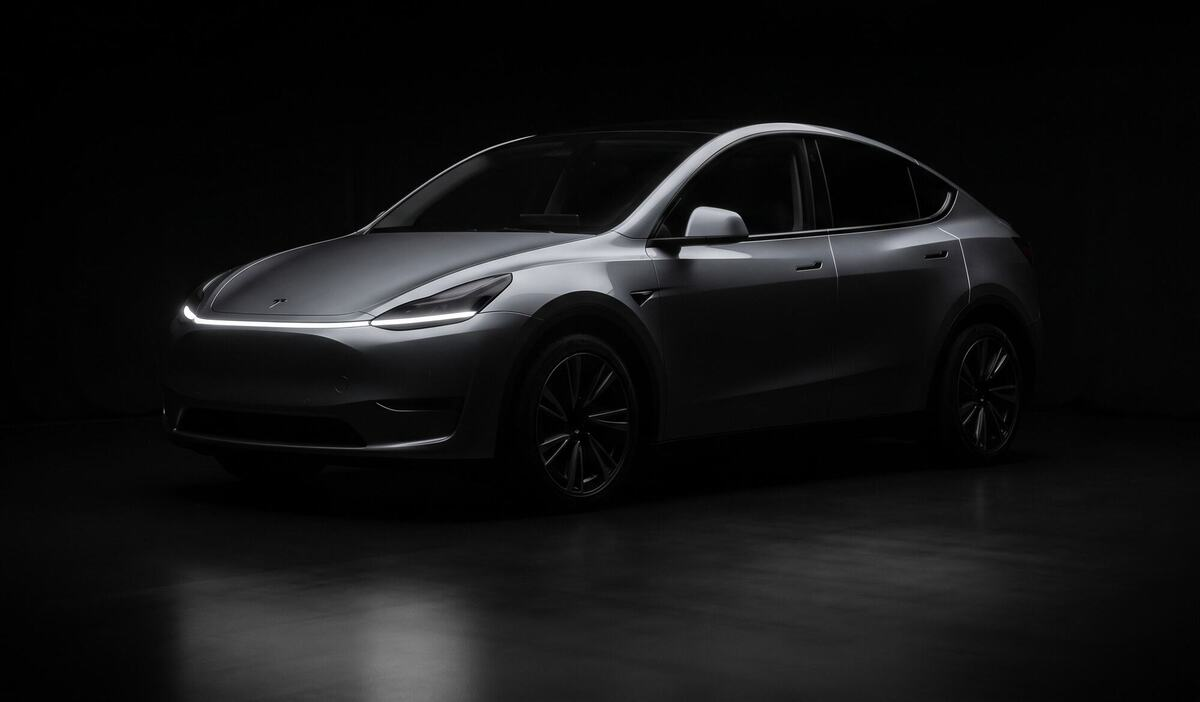
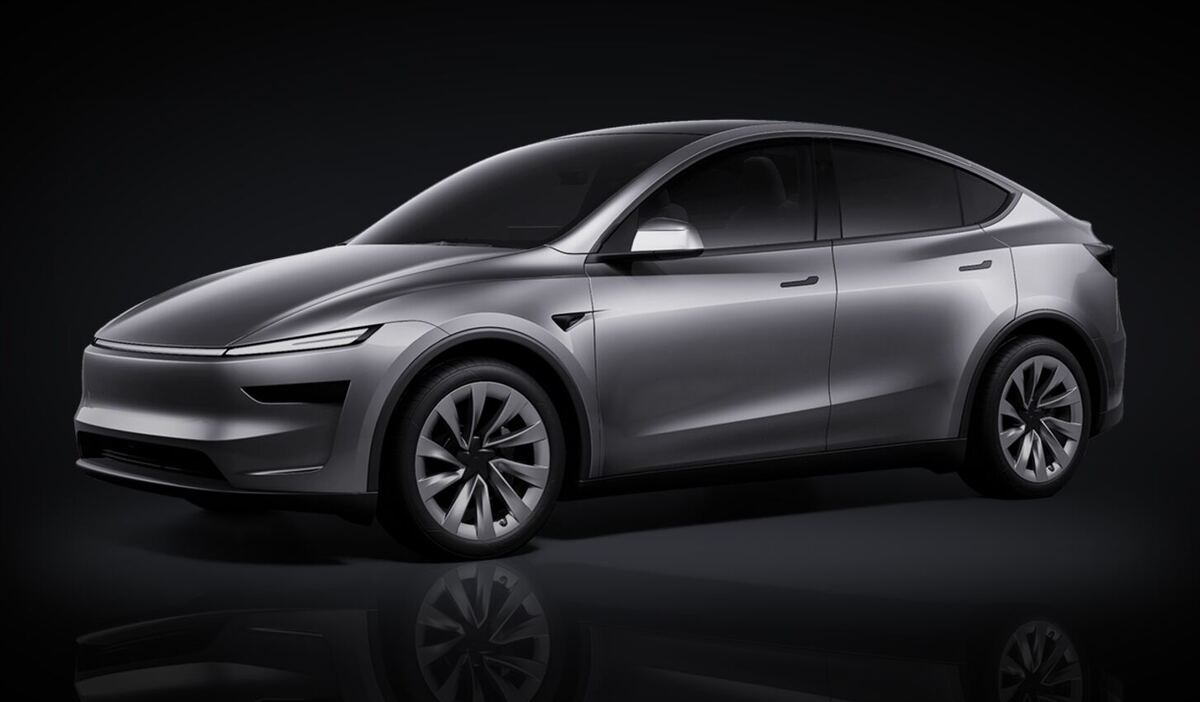
feat(sale): use Tesla configurator render of the same spec for the hero
- Hero now shows the actual facelift Model Y (Quicksilver, silver Helix
  2.0) from tesla.com, relit on black; credit says it is not the car
- Night band removed until it is rebuilt from the real rear render
- Copy: 'Acceleration Boost included with Launch Series'
- Section index: always visible, scrollspy clears/at-end handling,
  bar height token, safe centering, aria-current=location

diff --git a/public/sale/index.html b/public/sale/index.html
@@ -54,6 +54,7 @@
 <style>
   :root {
     --fs: 1;
+    --bar-h: 101px; /* top row 56 + border 1 + section index 44 */
     --ink: #0c0c0d;
     --graphite: #161719;
     --graphite-2: #1f2023;
@@ -131,11 +132,12 @@
   .subnav { height: 44px; border-top: 1px solid var(--line-dark); background: rgba(0,0,0,.55); }
   .topbar.is-solid .subnav { background: transparent; }
   .subnav__track {
+    position: relative;
     display: flex; align-items: center; gap: 4px; height: 44px;
     overflow-x: auto; scrollbar-width: none; -webkit-overflow-scrolling: touch;
   }
   .subnav__track::-webkit-scrollbar { display: none; }
-  @media (min-width: 980px) { .subnav__track { justify-content: center; } }
+  @media (min-width: 980px) { .subnav__track { justify-content: safe center; } }
   .subnav a {
     flex: none; padding: 6px 12px; border-radius: 999px;
     font-size: 13px; letter-spacing: .04em; white-space: nowrap;
@@ -143,7 +145,7 @@
     transition: color .2s, background-color .2s;
   }
   .subnav a:hover { color: var(--text-light); }
-  .subnav a[aria-current="true"] { color: var(--ink); background: var(--text-light); }
+  .subnav a[aria-current="location"] { color: var(--ink); background: var(--text-light); }
 
   .topbar__actions { display: flex; align-items: center; gap: 8px; }
   .topbar, .dock { --fs: 1; }
@@ -260,7 +262,7 @@
   .hero__actions { display: flex; gap: 10px; flex-wrap: wrap; }
 
   /* ---------- Sections ---------- */
-  section { scroll-margin-top: 100px; }
+  section { scroll-margin-top: var(--bar-h); }
   .section { padding: 72px 0; }
   @media (min-width: 720px) { .section { padding: 128px 0; } }
   .section--dark { background: var(--ink); color: var(--text-light); }
@@ -349,10 +351,10 @@
   .band__copy p:last-child { margin-top: 12px; color: #c9cbd0; font-size: calc(15px * var(--fs)); max-width: 26em; }
   .band .eyebrow { color: var(--muted-light); }
   .band__credit { top: 12px; }
-  @media (max-width: 899px), (orientation: portrait), (max-height: 560px) {
+  @media (width < 900px), (orientation: portrait), (height < 561px) {
     .band__media::after { content: ""; position: absolute; inset: auto 0 0 0; height: 35%; background: linear-gradient(0deg, #000, rgba(0,0,0,0)); }
   }
-  @media (min-width: 900px) and (orientation: landscape) and (min-height: 561px) {
+  @media (width >= 900px) and (orientation: landscape) and (height >= 561px) {
     .band__media::after {
       content: ""; position: absolute; inset: 0;
       background: linear-gradient(270deg, rgba(0,0,0,.78) 0%, rgba(0,0,0,.35) 30%, rgba(0,0,0,0) 50%),
@@ -593,12 +595,11 @@
 <main id="top">
   <!-- 1. Hero -->
   <section class="hero" aria-labelledby="hero-title">
-    <div class="hero__bg">
-      <img src="images/hero.jpg" srcset="images/hero-m.jpg 1200w, images/hero.jpg 2000w"
-           sizes="(max-width: 719px) 100vw, (orientation: portrait) 100vw, (max-height: 560px) 100vw, (min-width: 1736px) 1180px, 68vw"
-           alt="Tesla Model Y 車體示意圖（非實車照片）" width="2000" height="1170" fetchpriority="high">
-    </div>
-    <span class="hero__credit" aria-hidden="true">示意圖，非實車照片</span>
+    <picture class="hero__bg">
+      <source media="(max-width: 719px), (orientation: portrait), (max-height: 560px)" srcset="images/hero-m.jpg" width="1200" height="702">
+      <img src="images/hero.jpg" alt="2025 Tesla Model Y Quicksilver 搭配銀色 Helix 2.0 輪框（Tesla 官網同配置圖，非本車實拍）" width="2000" height="1170" fetchpriority="high">
+    </picture>
+    <span class="hero__credit" aria-hidden="true">圖片取自 Tesla 官網同配置，非本車實拍</span>
     <div class="hero__body wrap">
       <div class="hero__text">
       <p class="eyebrow">車主自售 · Private Sale</p>
@@ -630,7 +631,7 @@
       <ul class="stats">
         <li class="stat reveal"><div class="stat__value">2025</div><p class="stat__label"><b>年式</b>出廠 2025.04・領牌 2025.06</p></li>
         <li class="stat reveal"><div class="stat__value">22,000<small>km</small></div><p class="stat__label"><b>里程</b>約 2.2 萬公里</p></li>
-        <li class="stat reveal"><div class="stat__value">4.3<small>sec</small></div><p class="stat__label"><b>0–100 km/h</b>原廠內建 Acceleration Boost</p></li>
+        <li class="stat reveal"><div class="stat__value">4.3<small>sec</small></div><p class="stat__label"><b>0–100 km/h</b>首發包含 Acceleration Boost</p></li>
         <li class="stat reveal"><div class="stat__value">375<small>hp</small></div><p class="stat__label"><b>行照登記最大馬力</b>依行照登記數值</p></li>
         <li class="stat reveal"><div class="stat__value">AWD</div><p class="stat__label"><b>Long Range</b>雙馬達全輪驅動・長續航</p></li>
         <li class="stat reveal"><div class="stat__value">20<small>in</small></div><p class="stat__label"><b>Helix 2.0</b>原廠輪圈</p></li>
@@ -686,38 +687,22 @@
     </div>
   </section>
 
-  <!-- Night band -->
-  <section class="band" aria-labelledby="band-title">
-    <picture class="band__media">
-      <source media="(max-width: 899px), (orientation: portrait), (max-height: 560px)" srcset="images/night-m.jpg" width="1200" height="900">
-      <img src="images/night.jpg" srcset="images/night-1200.jpg 1200w, images/night.jpg 2400w" sizes="100vw" alt="Tesla Model Y 夜間行駛，貫穿式尾燈發出柔和紅光的示意圖（非實車照片）" width="2400" height="1018" loading="lazy">
-    </picture>
-    <div class="band__text wrap">
-      <div class="band__copy reveal">
-        <p class="eyebrow">Rear Light Bar</p>
-        <h2 id="band-title">夜裡的那道紅</h2>
-        <p>新款 Model Y 的貫穿式尾燈採漫反射設計：光先打在內部反射面再散出來，不刺眼，是一整道柔和的紅。</p>
-      </div>
-    </div>
-    <span class="band__credit" aria-hidden="true">示意圖，非實車照片</span>
-  </section>
-
   <!-- 3. Launch Series -->
   <section class="section section--dark" id="launch" aria-labelledby="launch-title">
     <div class="wrap">
       <div class="head reveal">
         <h2 id="launch-title">Launch Series<span class="zh">台灣首發限量版</span></h2>
-        <p>新款 Model Y 在台灣上市時的首批版本，台灣配額約 500 台。以 Long Range AWD 為基礎，原廠直接內建 Acceleration Boost，並帶有首發版專屬的外觀與內裝細節。</p>
+        <p>新款 Model Y 在台灣上市時的首批版本，台灣配額約 500 台。以 Long Range AWD 為基礎，首發包含 Acceleration Boost，並帶有首發版專屬的外觀與內裝細節。</p>
       </div>
       <div class="split">
         <div class="prose reveal">
-          <p>和一般 Long Range AWD 最大的差別在加速。Launch Series 出廠即內建 Acceleration Boost，0–100 km/h 約 4.3 秒，整體設定比一般 Long Range AWD 更偏向性能取向，但仍是長續航、日常好開的配置。</p>
+          <p>和一般 Long Range AWD 最大的差別在加速。Launch Series 首發包含 Acceleration Boost，0–100 km/h 約 4.3 秒，整體設定比一般 Long Range AWD 更偏向性能取向，但仍是長續航、日常好開的配置。</p>
           <p>其餘差異都在細節：車身與車內的 Launch Series 徽章、開門時的專屬迎賓投影、門檻踏板與內裝飾件。不張揚，但看得出是首發版本。</p>
-          <p class="callout">行照登記最大馬力 375 hp，Launch Series 原廠內建 Acceleration Boost，0–100 km/h 約 4.3 秒。</p>
+          <p class="callout">行照登記最大馬力 375 hp，Launch Series 首發包含 Acceleration Boost，0–100 km/h 約 4.3 秒。</p>
         </div>
         <ul class="list reveal">
           <li><svg aria-hidden="true"><use href="#i-check"/></svg><span>Launch Series 首發限量版本<small>台灣首批，配額約 500 台（依媒體報導，官方未公布確切數量）</small></span></li>
-          <li><svg aria-hidden="true"><use href="#i-check"/></svg><span>原廠內建 Acceleration Boost<small>0–100 km/h 約 4.3 秒</small></span></li>
+          <li><svg aria-hidden="true"><use href="#i-check"/></svg><span>首發包含 Acceleration Boost<small>0–100 km/h 約 4.3 秒</small></span></li>
           <li><svg aria-hidden="true"><use href="#i-check"/></svg><span>行照登記最大馬力 375 hp</span></li>
           <li><svg aria-hidden="true"><use href="#i-check"/></svg><span>Launch Series 專屬徽章</span></li>
           <li><svg aria-hidden="true"><use href="#i-check"/></svg><span>Launch Series 專屬迎賓踏板</span></li>
@@ -908,7 +893,7 @@
               <div><dt>20 吋 Helix 2.0 輪圈</dt><dd>原車</dd></div>
               <div class="na"><dt>全黑色內裝</dt><dd>原車</dd></div>
               <div class="na"><dt>0–100 km/h</dt><dd>約 4.3 秒</dd></div>
-              <div class="na"><dt>Acceleration Boost</dt><dd>原廠內建</dd></div>
+              <div class="na"><dt>Acceleration Boost</dt><dd>首發包含</dd></div>
               <div class="na"><dt>駕駛輔助</dt><dd>基本 Autopilot</dd></div>
               <div class="na"><dt>保護膜／隔熱紙</dt><dd>3M 200G＋Solar Gard</dd></div>
               <div class="total"><dt>NT$<span class="rows__km">・約 22,000 km</span></dt><dd>2,100,000</dd></div>
@@ -998,7 +983,7 @@
       var blocks = document.querySelectorAll('.reveal');
       for (var i = 0; i < blocks.length; i++) {
         var r = blocks[i].getBoundingClientRect();
-        if (r.bottom > 64) { anchor = blocks[i]; before = r.top; break; }
+        if (r.bottom > topbar.offsetHeight + 8) { anchor = blocks[i]; before = r.top; break; }
       }
       fsIndex = (fsIndex + 1) % sizes.length;
       applyFs();
@@ -1020,11 +1005,13 @@
       dockLink.tabIndex = show ? 0 : -1;
     }
     var ticking = false;
+    var atPageEnd = function () {};
     function update() {
       ticking = false;
       topbar.classList.toggle('is-solid', window.scrollY > 40);
       var next = window.scrollY > window.innerHeight * 0.75;
       if (next !== pastHero) { pastHero = next; syncDock(); }
+      atPageEnd();
     }
     window.addEventListener('scroll', function () {
       if (!ticking) { ticking = true; requestAnimationFrame(update); }
@@ -1043,15 +1030,21 @@
         if (id === current) return;
         if (current && navLinks[current]) navLinks[current].removeAttribute('aria-current');
         current = id;
-        var link = navLinks[id];
+        var link = id && navLinks[id];
         if (!link) return;
-        link.setAttribute('aria-current', 'true');
-        var left = link.offsetLeft - (track.clientWidth - link.offsetWidth) / 2;
-        track.scrollTo({ left: Math.max(0, left), behavior: 'smooth' });
+        link.setAttribute('aria-current', 'location');
+        // Instant, so it never fights the page's own smooth scroll.
+        track.scrollLeft = Math.max(0, link.offsetLeft - (track.clientWidth - link.offsetWidth) / 2);
       }
       var spy = new IntersectionObserver(function (entries) {
-        entries.forEach(function (e) { if (e.isIntersecting) setCurrent(e.target.id); });
+        entries.forEach(function (e) {
+          if (e.isIntersecting) setCurrent(e.target.id);
+          else if (e.target.id === current) setCurrent(null);
+        });
       }, { rootMargin: '-40% 0px -55% 0px' });
+      atPageEnd = function () {
+        if (window.innerHeight + window.scrollY >= document.documentElement.scrollHeight - 2) setCurrent('contact');
+      };
       Object.keys(navLinks).forEach(function (id) {
         var el = document.getElementById(id);
         if (el) spy.observe(el);
